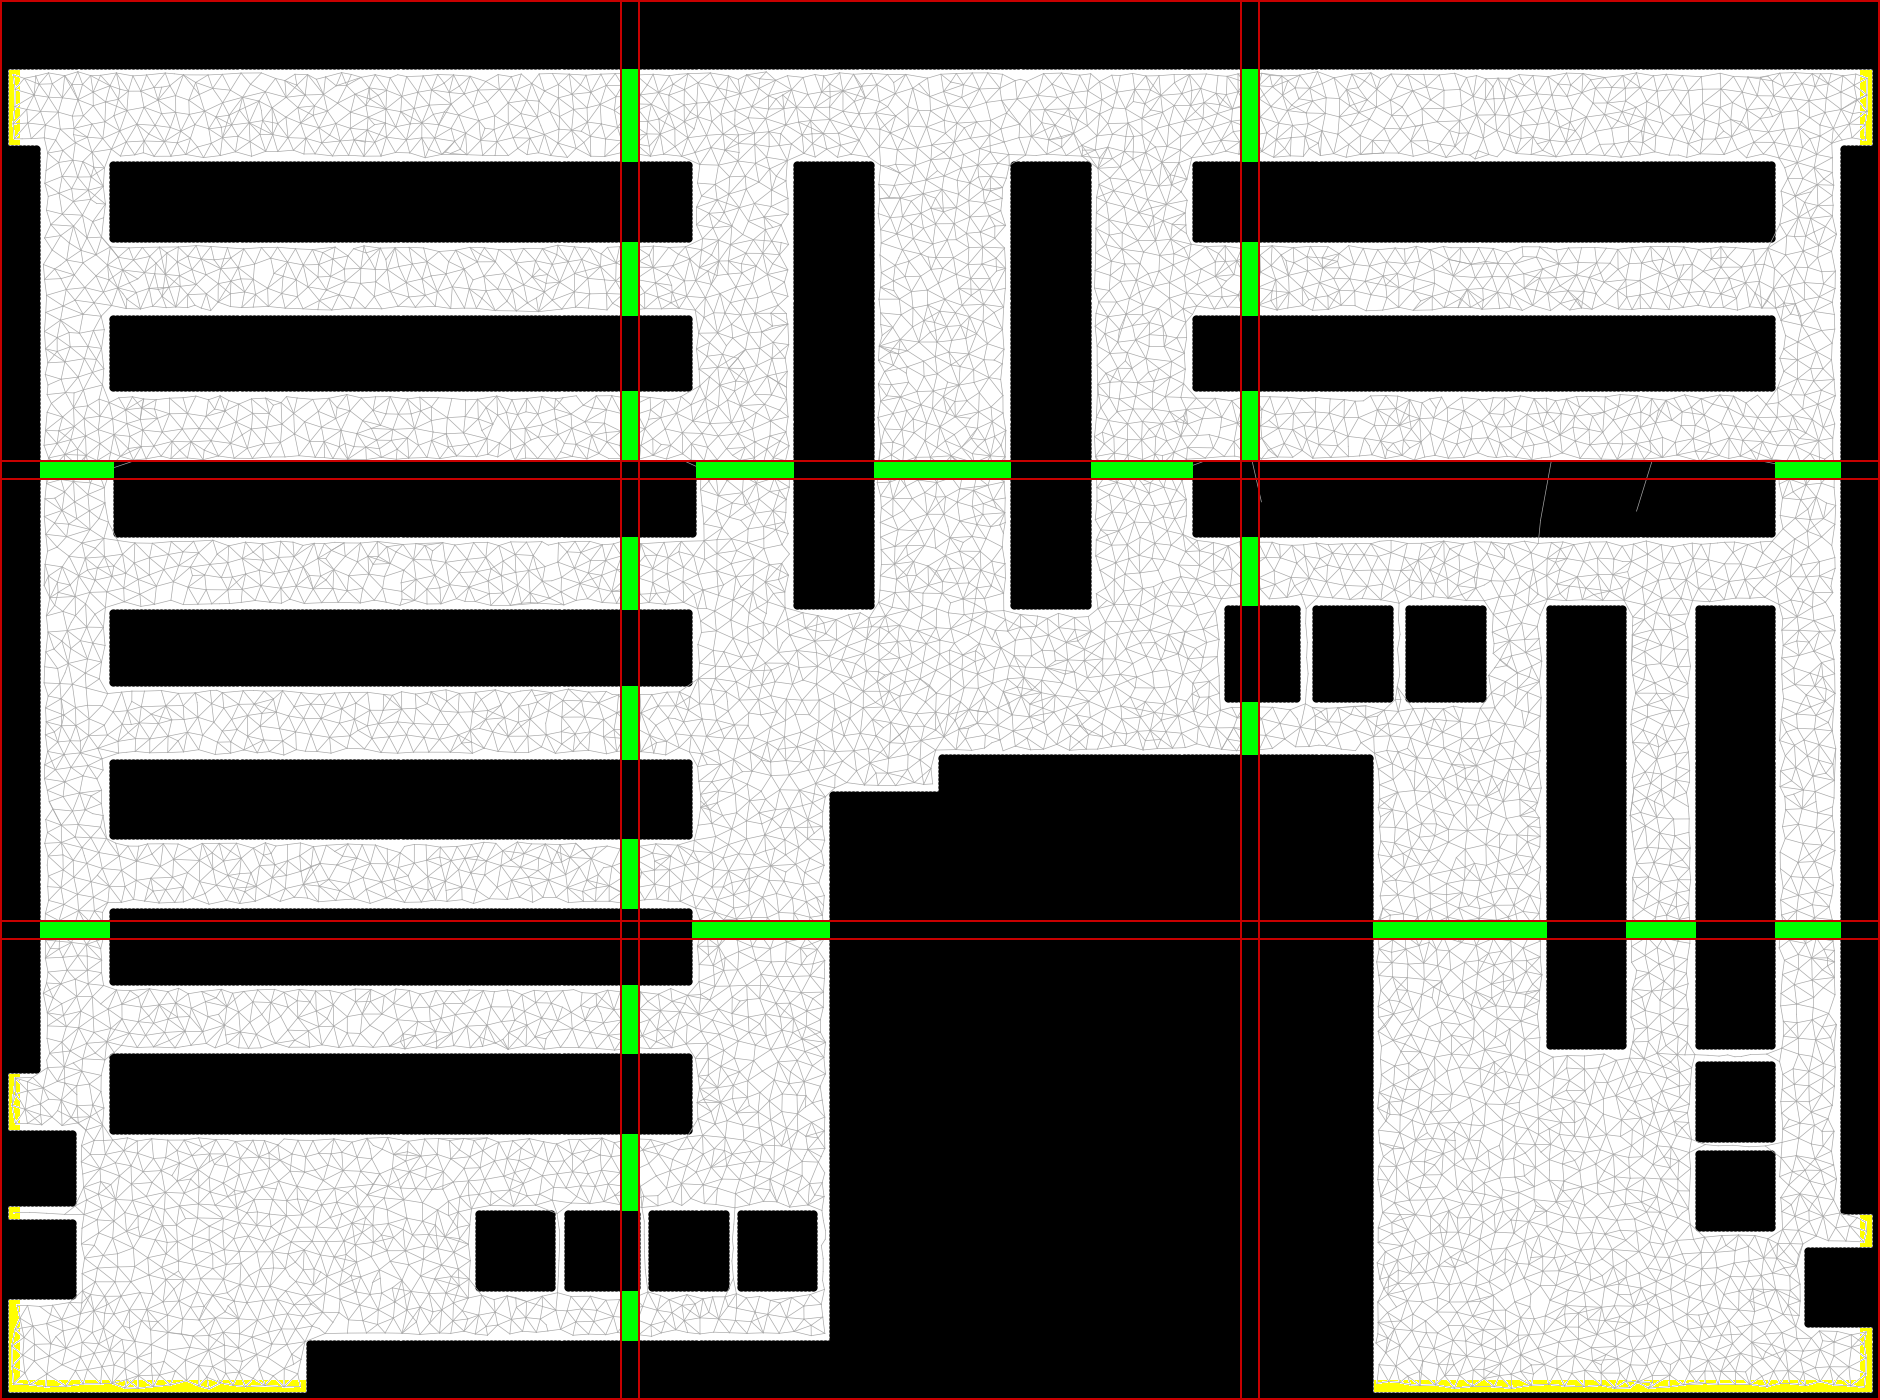
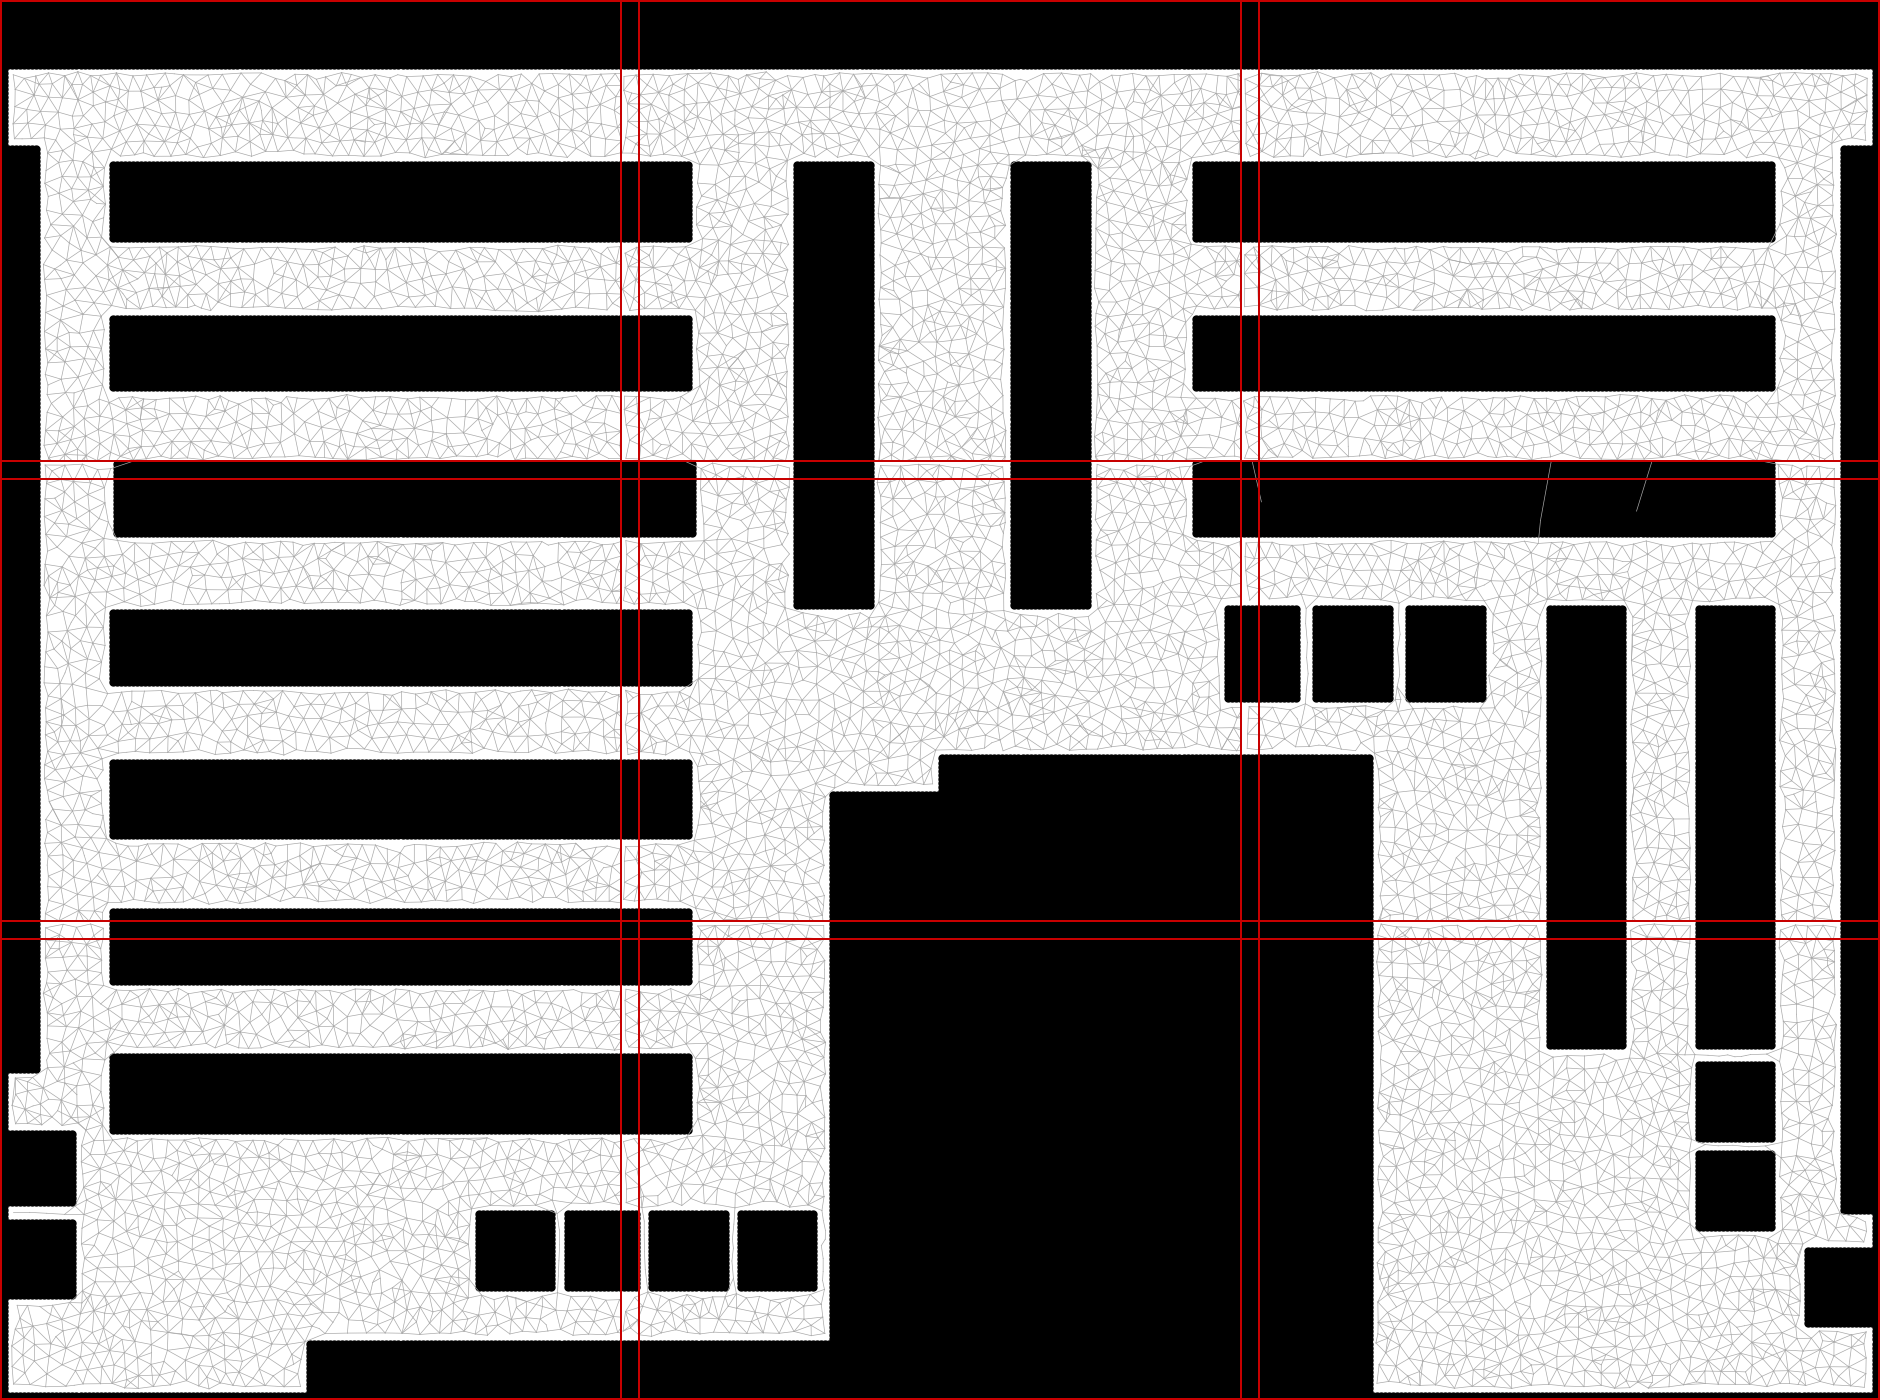
I think its ready for the IET extension of ICDSC 2019 submission

diff --git a/WaypointGraphs/GrowingNeuralGas.py b/WaypointGraphs/GrowingNeuralGas.py
@@ -134,142 +134,6 @@ def stitchGNGImagesToGrid(output_filename, subview_directory, rows, cols, row_ov
             grid.paste(subview_list[subview_index], (offset_x, offset_y))
 
 
-
-
-    # # Identify possible transition regions
-    # #   Looks for any and all free space in the overlap regions of subviews or cameras
-    # for row in range(0, subview_rows):
-    #     for col in range(0, subview_cols):
-    #         subview_index = row * subview_cols + col
-    #
-    #         offset_x = col * (subview_width - col_overlap_pixels)
-    #         offset_y = row * (subview_height - row_overlap_pixels)
-    #
-    #         for x in range(offset_x, offset_x + subview_list[subview_index].width):
-    #             # Possible top transition regions
-    #             for y in range(offset_y, offset_y + row_overlap_pixels):
-    #                 if grid.getpixel((x,y)) == (255,255,255):
-    #                     grid.putpixel((x, y), (255,255,0)) # Yellow
-    #
-    #             # Possible bottom transition regions
-    #             for y in range(offset_y + subview_list[subview_index].height - row_overlap_pixels, offset_y + subview_list[subview_index].height):
-    #                 if grid.getpixel((x,y)) == (255,255,255):
-    #                     grid.putpixel((x, y), (255,255,0)) # Yellow
-    #
-    #         for y in range(offset_y, offset_y + subview_list[subview_index].height):
-    #             # Possible left transition regions
-    #             for x in range(offset_x, offset_x + col_overlap_pixels):
-    #                 if grid.getpixel((x,y)) == (255,255,255):
-    #                     grid.putpixel((x, y), (255,255,0)) # Yellow
-    #
-    #             # Possible right transition regions
-    #             for x in range(offset_x + subview_list[subview_index].width - col_overlap_pixels, offset_x + subview_list[subview_index].width):
-    #                 if grid.getpixel((x,y)) == (255,255,255):
-    #                     grid.putpixel((x, y), (255,255,0)) # Yellow
-    #
-    #
-    # # Identify valid transition regions
-    # #   Looks for free space that is the specified height or width for corresponding top/bottom and left/right transition regions respecitvely
-    # for row in range(0, subview_rows):
-    #     for col in range(0, subview_cols):
-    #         subview_index = row * subview_cols + col
-    #
-    #         offset_x = col * (subview_width - col_overlap_pixels)
-    #         offset_y = row * (subview_height - row_overlap_pixels)
-    #
-    #         top_transition_regions = []
-    #         bottom_transition_regions = []
-    #         left_transition_regions = []
-    #         right_transition_regions = []
-    #
-    #         current_top_transition_region = []
-    #         current_bottom_transition_region = []
-    #         current_left_transition_region = []
-    #         current_right_transition_region = []
-    #
-    #
-    #         # Looking for columns of pixels of only freespace in overlap regions
-    #         for x in range(offset_x, offset_x + subview_list[subview_index].width):
-    #
-    #             # Valid top transition regions
-    #             valid_col = True
-    #             for y in range(offset_y, offset_y + row_overlap_pixels):
-    #                 if grid.getpixel((x,y)) == (0,0,0):
-    #                     valid_col = False
-    #             # Add col to transition region
-    #             if valid_col:
-    #                 for y in range(offset_y, offset_y + row_overlap_pixels):
-    #                     grid.putpixel((x, y), (0,255,0)) # Green
-    #                     current_top_transition_region.append((x,y))
-    #             # Otherwise if we have previously added some cols, finish up a region and add to set
-    #             else:
-    #                 if current_top_transition_region:
-    #                     top_transition_regions.append(current_top_transition_region)
-    #                     current_top_transition_region = []
-    #
-    #
-    #             # Valid bottom transition regions
-    #             valid_col = True
-    #             for y in range(offset_y + subview_list[subview_index].height - row_overlap_pixels, offset_y + subview_list[subview_index].height):
-    #                 if grid.getpixel((x,y)) == (0,0,0):
-    #                     valid_col = False
-    #
-    #             if valid_col:
-    #                 for y in range(offset_y + subview_list[subview_index].height - row_overlap_pixels, offset_y + subview_list[subview_index].height):
-    #                     grid.putpixel((x, y), (0,255,0)) # Green
-    #                     current_bottom_transition_region.append((x,y))
-    #             # Otherwise if we have previously added some cols, finish up a region and add to set
-    #             else:
-    #                 if current_bottom_transition_region:
-    #                     bottom_transition_regions.append(current_bottom_transition_region)
-    #                     current_bottom_transition_region = []
-    #
-    #
-    #         # Looking for rows of pixels of only freespace in overlap regions
-    #         for y in range(offset_y, offset_y + subview_list[subview_index].height):
-    #
-    #             # Valid left transition regions
-    #             valid_row = True
-    #             for x in range(offset_x, offset_x + col_overlap_pixels):
-    #                 if grid.getpixel((x,y)) == (0,0,0):
-    #                     valid_row = False
-    #
-    #             if valid_row:
-    #                 for x in range(offset_x, offset_x + col_overlap_pixels):
-    #                     grid.putpixel((x, y), (0,255,0)) # Green
-    #                     current_left_transition_region.append((x,y))
-    #             # Otherwise if we have previously added some rows, finish up a region and add to set
-    #             else:
-    #                 if current_left_transition_region:
-    #                     left_transition_regions.append(current_left_transition_region)
-    #                     current_left_transition_region = []
-    #
-    #
-    #             # Valid right transition regions
-    #             valid_row = True
-    #             for x in range(offset_x + subview_list[subview_index].width - col_overlap_pixels, offset_x + subview_list[subview_index].width):
-    #                 if grid.getpixel((x,y)) == (0,0,0):
-    #                     valid_row = False
-    #             if valid_row:
-    #                 for x in range(offset_x + subview_list[subview_index].width - col_overlap_pixels, offset_x + subview_list[subview_index].width):
-    #                     grid.putpixel((x, y), (0,255,0)) # Green
-    #                     current_right_transition_region.append((x,y))
-    #             # Otherwise if we have previously added some rows, finish up a region and add to set
-    #             else:
-    #                 if current_right_transition_region:
-    #                     right_transition_regions.append(current_right_transition_region)
-    #                     current_right_transition_region = []
-    #
-    #
-    #         # Summary of transition regions
-    #         print('Subview ' + str(subview_index) + ':')
-    #         print('\t# of valid top transition regions: ' + str(len(top_transition_regions)))
-    #         print('\t# of valid bottom transition regions: ' + str(len(bottom_transition_regions)))
-    #         print('\t# of valid left transition regions: ' + str(len(left_transition_regions)))
-    #         print('\t# of valid right transition regions: ' + str(len(right_transition_regions)))
-
-
-
     # Add borders for each subview such that overlaps can be seen
     border_color = (200,0,0)
     for row in range(0, subview_rows):
@@ -303,11 +167,19 @@ def stitchGNGImagesToGrid(output_filename, subview_directory, rows, cols, row_ov
 
 
 
+# Find centroid of a region of points
+#   Region is a list of points (x,y)
+def FindCentroid(region):
+    x = [p[0] for p in region]
+    y = [p[1] for p in region]
+    return (sum(x) / len(region), sum(y) / len(region))
+
+
 
 #   Possible transition regions in overlapping regions are yellow
 #   Valid transition regions are green
 #   Transition points are blue
-def FindTransitionRegions(output_filename, subview_directory, rows, cols, row_overlap, col_overlap):
+def FindTransitionRegions(camera_transition_regions, camera_transition_points, output_filename, subview_directory, rows, cols, row_overlap, col_overlap):
     subview_directory = subview_directory
 
     subview_rows = rows
@@ -367,6 +239,11 @@ def FindTransitionRegions(output_filename, subview_directory, rows, cols, row_ov
             current_right_transition_region = []
 
             transition_region_min_pixels = 10
+
+            top_transition_points = []
+            bottom_transition_points = []
+            left_transition_points = []
+            right_transition_points = []
 
 
             # Looking for columns of pixels of only freespace in overlap regions
@@ -443,47 +320,69 @@ def FindTransitionRegions(output_filename, subview_directory, rows, cols, row_ov
                         current_right_transition_region = []
 
 
-            # Summary of transition regions
-            print('Subview ' + str(subview_index) + ':')
-            print('\t# of valid top transition regions: ' + str(len(top_transition_regions)))
-            print('\t# of valid bottom transition regions: ' + str(len(bottom_transition_regions)))
-            print('\t# of valid left transition regions: ' + str(len(left_transition_regions)))
-            print('\t# of valid right transition regions: ' + str(len(right_transition_regions)))
+            # # Summary of transition regions
+            # print('Subview ' + str(subview_index) + ':')
+            # print('\t# of valid top transition regions: ' + str(len(top_transition_regions)))
+            # print('\t# of valid bottom transition regions: ' + str(len(bottom_transition_regions)))
+            # print('\t# of valid left transition regions: ' + str(len(left_transition_regions)))
+            # print('\t# of valid right transition regions: ' + str(len(right_transition_regions)))
+
+            # Save transition regions for each camera or subview
+            camera_transition_regions[subview_index].append(top_transition_regions)
+            camera_transition_regions[subview_index].append(bottom_transition_regions)
+            camera_transition_regions[subview_index].append(left_transition_regions)
+            camera_transition_regions[subview_index].append(right_transition_regions)
+
+
 
 
             # Mark the centroid of each transition region - this is our transition point
             transition_point_marking_radius = 3
             for region in top_transition_regions:
-                x = [p[0] for p in region]
-                y = [p[1] for p in region]
-                centroid = (int(sum(x) / len(region)), int(sum(y) / len(region)))
+                centroid = FindCentroid(region)
+                top_transition_points.append(centroid)
+
+                # Draw centroid marking
+                centroid = (int(centroid[0]), int(centroid[1]))
                 for square_x in range(centroid[0]-transition_point_marking_radius, centroid[0]+transition_point_marking_radius+1):
                     for square_y in range(centroid[1]-transition_point_marking_radius, centroid[1]+transition_point_marking_radius+1):
                         grid.putpixel((square_x, square_y), (0,0,255)) # Blue
 
             for region in bottom_transition_regions:
-                x = [p[0] for p in region]
-                y = [p[1] for p in region]
-                centroid = (int(sum(x) / len(region)), int(sum(y) / len(region)))
+                centroid = FindCentroid(region)
+                bottom_transition_points.append(centroid)
+
+                # Draw centroid marking
+                centroid = (int(centroid[0]), int(centroid[1]))
                 for square_x in range(centroid[0]-transition_point_marking_radius, centroid[0]+transition_point_marking_radius+1):
                     for square_y in range(centroid[1]-transition_point_marking_radius, centroid[1]+transition_point_marking_radius+1):
                         grid.putpixel((square_x, square_y), (0,0,255)) # Blue
 
             for region in left_transition_regions:
-                x = [p[0] for p in region]
-                y = [p[1] for p in region]
-                centroid = (int(sum(x) / len(region)), int(sum(y) / len(region)))
+                centroid = FindCentroid(region)
+                left_transition_points.append(centroid)
+
+                # Draw centroid marking
+                centroid = (int(centroid[0]), int(centroid[1]))
                 for square_x in range(centroid[0]-transition_point_marking_radius, centroid[0]+transition_point_marking_radius+1):
                     for square_y in range(centroid[1]-transition_point_marking_radius, centroid[1]+transition_point_marking_radius+1):
                         grid.putpixel((square_x, square_y), (0,0,255)) # Blue
 
             for region in right_transition_regions:
-                x = [p[0] for p in region]
-                y = [p[1] for p in region]
-                centroid = (int(sum(x) / len(region)), int(sum(y) / len(region)))
+                centroid = FindCentroid(region)
+                right_transition_points.append(centroid)
+
+                # Draw centroid marking
+                centroid = (int(centroid[0]), int(centroid[1]))
                 for square_x in range(centroid[0]-transition_point_marking_radius, centroid[0]+transition_point_marking_radius+1):
                     for square_y in range(centroid[1]-transition_point_marking_radius, centroid[1]+transition_point_marking_radius+1):
                         grid.putpixel((square_x, square_y), (0,0,255)) # Blue
+
+            # Save transition points for each camera or subview
+            camera_transition_points[subview_index].append(top_transition_points)
+            camera_transition_points[subview_index].append(bottom_transition_points)
+            camera_transition_points[subview_index].append(left_transition_points)
+            camera_transition_points[subview_index].append(right_transition_points)
 
 
     # Identify possible transition regions
@@ -531,7 +430,7 @@ def FindTransitionRegions(output_filename, subview_directory, rows, cols, row_ov
             offset_y = row * (subview_height - row_overlap_pixels)
 
             # Add borders
-            border_width = 1
+            border_width = 2
             for x in range(offset_x, offset_x + subview_list[subview_index].width):
                 # Top border for each subview
                 for y in range(offset_y, offset_y + border_width):
@@ -577,9 +476,6 @@ camera_free_space_data = []             # Data points corresponding to the locat
 camera_occupied_space_data = []         # Data points corresponding to the location of free space pixels
 camera_gng_instances = []               # GrowingNeuralGas instances
 
-# environment_image = None                # Stitched image of all camera views
-# environment_free_space_data = []        # Data points corresponding to the location of free space pixels for all cameras
-# environment_occupied_space_data = []    # Data points corresponding to the location of free space pixels for all cameras
 
 
 # Create camera grid data structure
@@ -590,6 +486,12 @@ camera_grid_cols = 3
 print('Initializing camera grid...')
 camera_grid = init_camera_grid(camera_grid_rows, camera_grid_cols)
 
+# Transition regions for each camera
+camera_transition_regions = []
+
+# Transition points for each camera
+camera_transition_points = []
+
 
 
 for row in range(0, camera_grid_rows):
@@ -598,6 +500,10 @@ for row in range(0, camera_grid_rows):
 
         camera_grid[row][col] = camera_index
         camera_ids.append(camera_index)
+
+        # Add transition region list and transition point list for each camera
+        camera_transition_regions.append([])    # List will be populated with Top, Bottom, Left, Right transition regions
+        camera_transition_points.append([])    # List will be populated with Top, Bottom, Left, Right transition regions
 
 print('Camera grid:')
 for r in range(0, camera_grid_rows):
@@ -626,10 +532,20 @@ for i in range(0, len(subview_filenames_list)):
 print('Stitching subviews...')
 
 environment_transition_regions_filename = subview_directory + '/Environment_Transition_Regions.png'
-FindTransitionRegions(environment_transition_regions_filename, subview_directory, 3, 3, 20, 20)
+FindTransitionRegions(camera_transition_regions, camera_transition_points, environment_transition_regions_filename, subview_directory, 3, 3, 20, 20)
 
-while 1:
-    continue
+# Summary of transition regions
+for subview_index in range(0, len(camera_ids)):
+    print('Subview ' + str(subview_index) + ':')
+    print('\t# of valid top transition regions: '       + str(len(camera_transition_regions[subview_index][0])))
+    print('\t# of valid bottom transition regions: '    + str(len(camera_transition_regions[subview_index][1])))
+    print('\t# of valid left transition regions: '      + str(len(camera_transition_regions[subview_index][2])))
+    print('\t# of valid right transition regions: '     + str(len(camera_transition_regions[subview_index][3])))
+    print('\t# of valid top transition points: '        + str(len(camera_transition_points[subview_index][0])))
+    print('\t# of valid bottom transition points: '     + str(len(camera_transition_points[subview_index][1])))
+    print('\t# of valid left transition points: '       + str(len(camera_transition_points[subview_index][2])))
+    print('\t# of valid right transition points: '      + str(len(camera_transition_points[subview_index][3])))
+
 
 
 
@@ -661,11 +577,6 @@ for camera_index in range(0, camera_count):
     # plt.imshow(camera_grid[r][c], cmap='gray')
     # plt.pause(1)
     # plt.show()
-
-
-
-
-# Get transition regions for the camera grid
 
 
 
